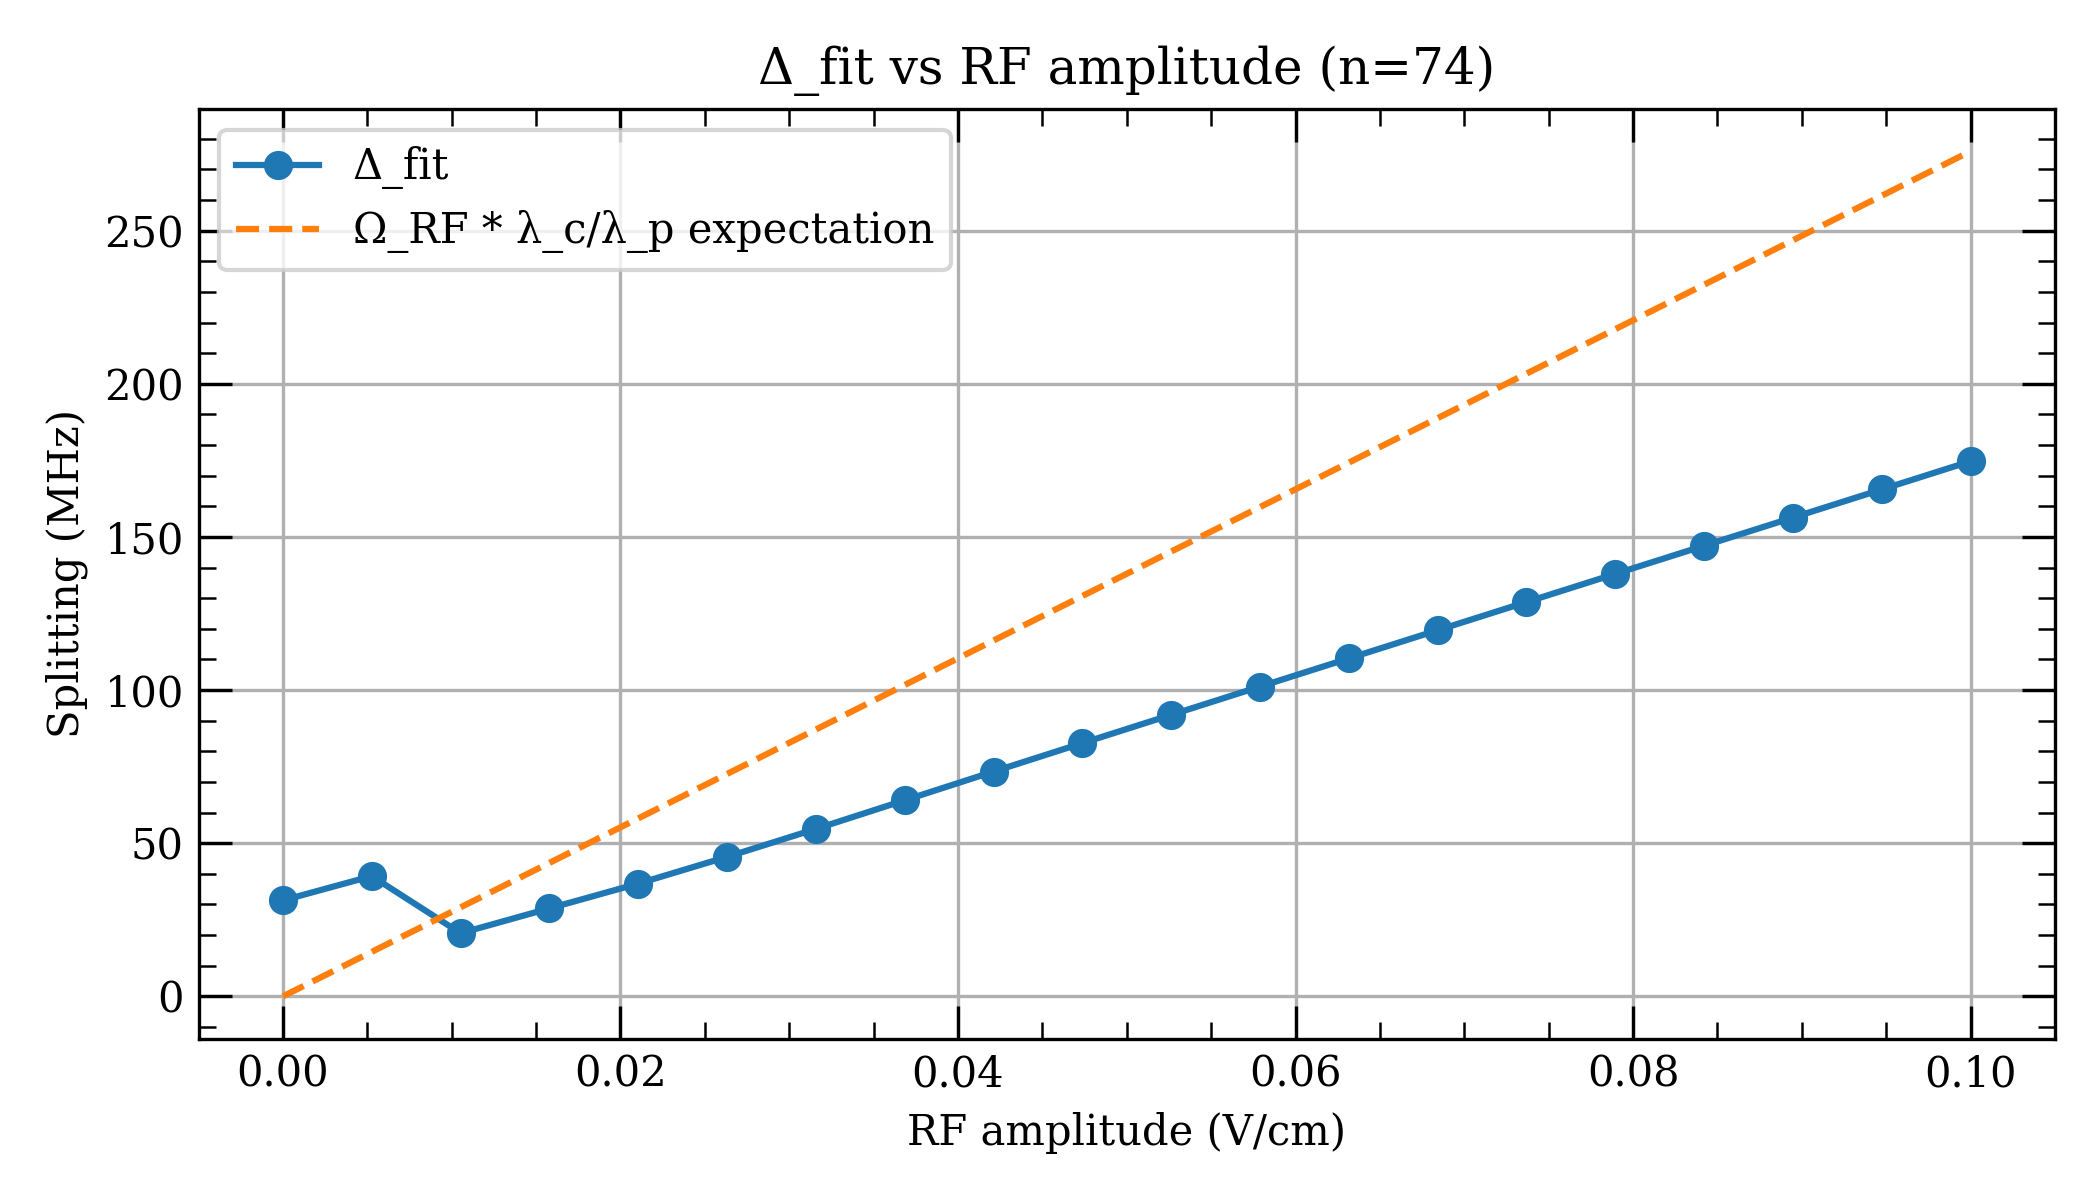
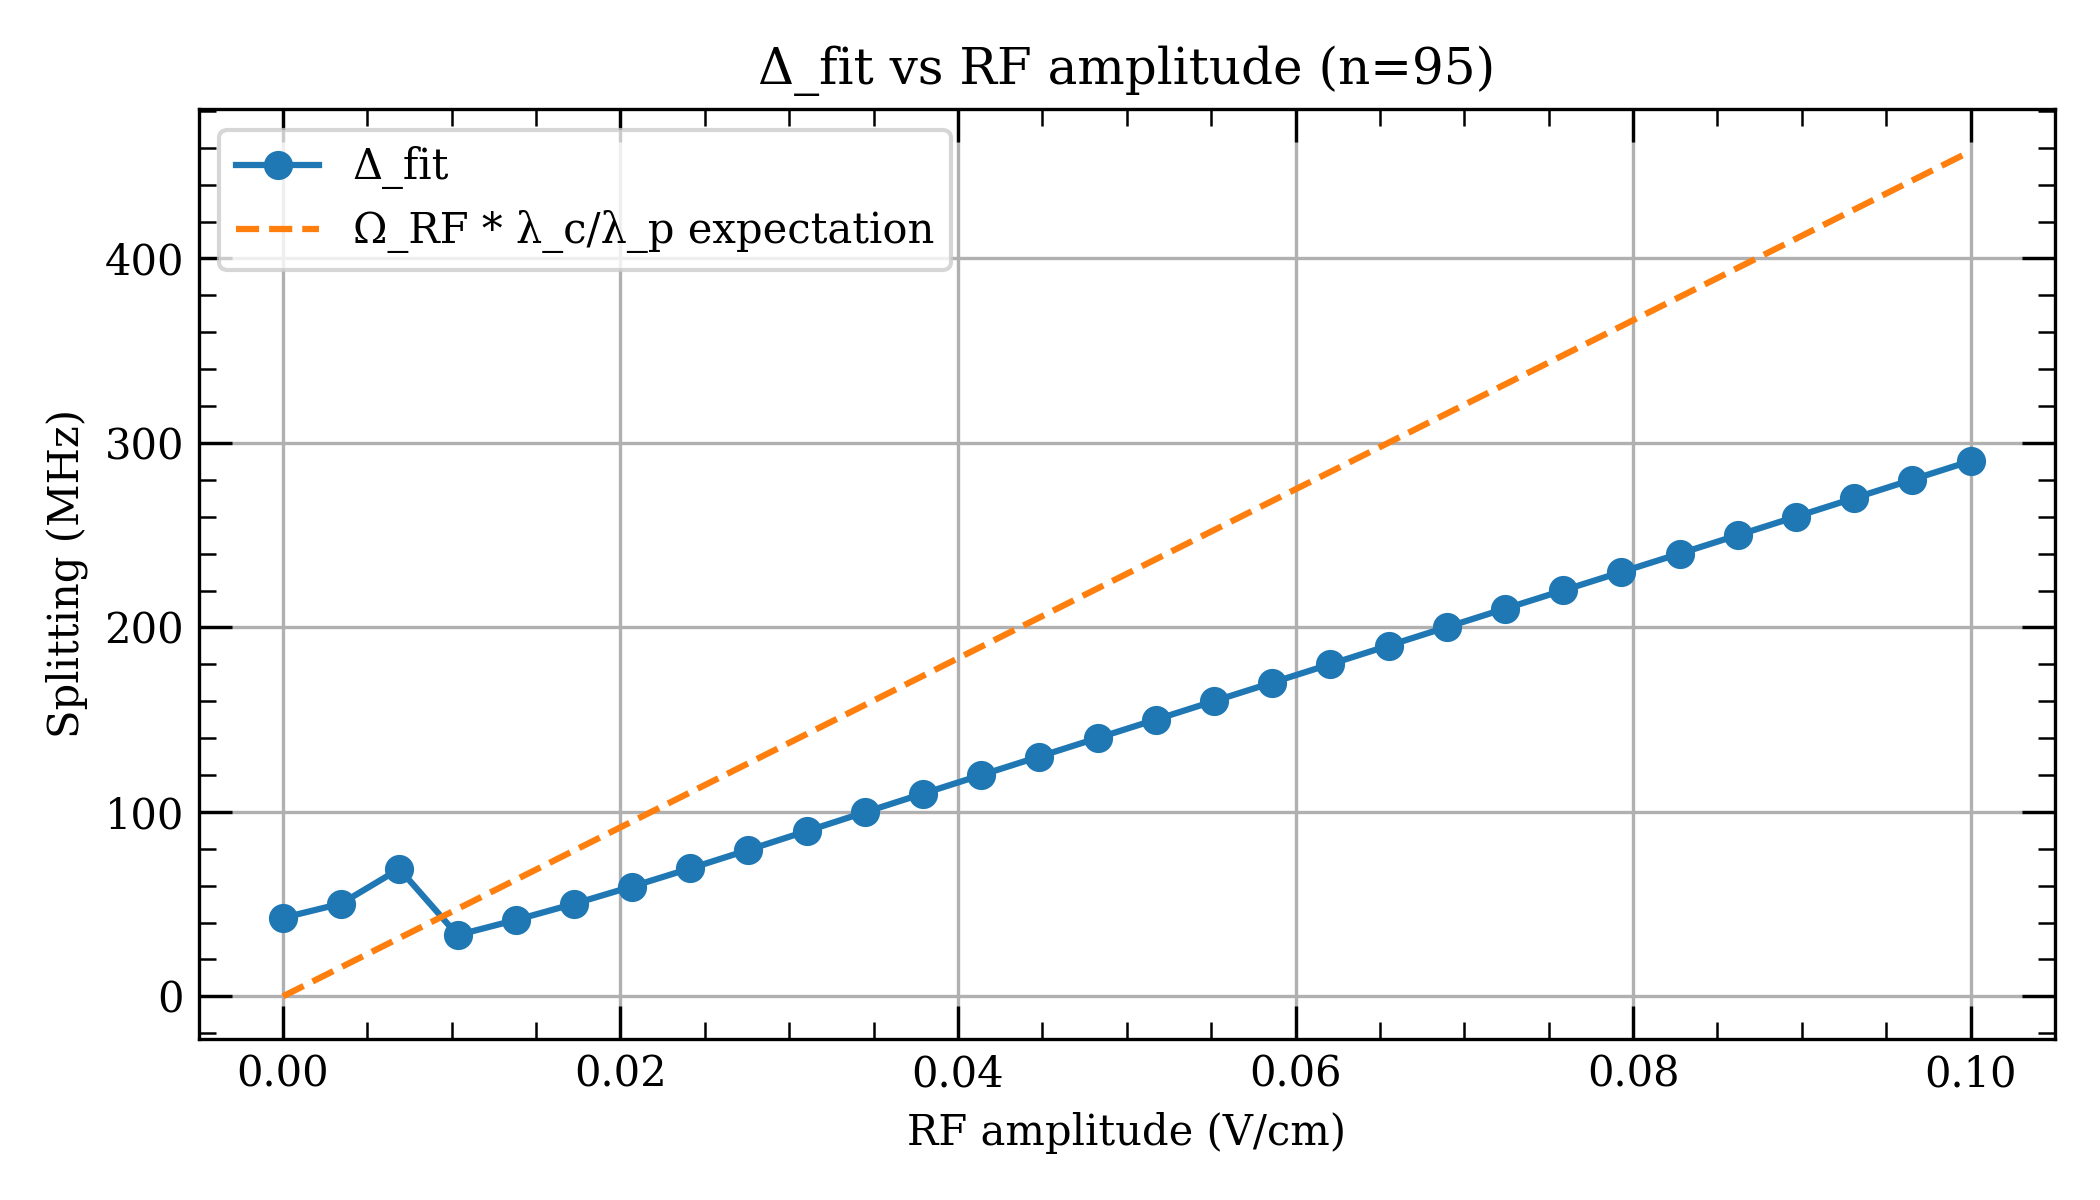
added tabs to parameters

diff --git a/gui.py b/gui.py
@@ -32,6 +32,7 @@ from PyQt6.QtWidgets import (
     QSizePolicy,
     QVBoxLayout,
     QGroupBox,
+    QTabWidget,
     QWidget,
 )
 from matplotlib.backends.backend_qtagg import FigureCanvasQTAgg as FigureCanvas
@@ -66,6 +67,7 @@ class SimulationGUI(QWidget):
         self.detuning_span = QLineEdit("300")
         self.detuning_points = QLineEdit("401")
         self.output_file = QLineEdit("eit_rf_gui.png")
+        self.control_detuning = QLineEdit("0.0")
         self.override_pressure = QCheckBox("Override pressure")
         self.pressure_torr = QLineEdit("")
         self.pressure_torr.setEnabled(False)
@@ -74,6 +76,8 @@ class SimulationGUI(QWidget):
         self.sweep_output = QLineEdit("eit_rf_sweep.png")
         self.sweep_output.setEnabled(False)
         self.enable_sweep_plot.toggled.connect(self._toggle_sweep_field)
+        self.sweep_points = QLineEdit("20")
+        self.sweep_points.setEnabled(False)
         self.probe_label_text = ""
         self.control_label_text = ""
         self.auto_n = QCheckBox("Auto select n")
@@ -86,7 +90,7 @@ class SimulationGUI(QWidget):
         self.np_value.setEnabled(False)
         self.auto_n.toggled.connect(self._toggle_n_fields)
         self.normalize = QCheckBox("Normalize baseline")
-        self.baseline_amp = QLineEdit("1000")
+        self.baseline_amp = QLineEdit("")
         self.timing = QCheckBox("Show timing")
         self.no_show = QCheckBox("Skip plot window")
         self.no_show.setChecked(True)
@@ -97,60 +101,10 @@ class SimulationGUI(QWidget):
         self.auto_rotate = QCheckBox("Auto-rotate visualization")
         self.auto_rotate.setChecked(True)
         self.auto_rotate.stateChanged.connect(self._toggle_auto_rotate)
+        self.debug_timing = QCheckBox("Show timing")
 
         self.output = QTextEdit()
         self.output.setReadOnly(True)
-
-        forms = QVBoxLayout()
-
-        rf_group = self._make_rows([
-            ("Isotope", self.isotope),
-            ("RF frequency (MHz)", self.rf_frequency),
-            ("RF amplitudes (V/cm)", self.rf_amplitudes),
-            ("Temperature (K)", self.temperature),
-            ("Cell length (m)", self.cell_length, "Cell cross (m)", self.cell_cross),
-            ("Probe span (MHz)", self.detuning_span),
-            ("Probe points", self.detuning_points),
-        ])
-        beam_form = self._make_rows([
-            ("Probe power (W)", self.probe_power, "Probe waist (m)", self.probe_waist),
-            ("Control power (W)", self.control_power, "Control waist (m)", self.control_waist),
-        ])
-        state_layout = QHBoxLayout()
-        state_label = QLabel("Level select")
-        state_label.setMinimumWidth(140)
-        state_layout.addWidget(state_label)
-        state_layout.addWidget(self.auto_n)
-        state_layout.addSpacing(10)
-        state_layout.addWidget(QLabel("n"))
-        state_layout.addWidget(self.n_value)
-        state_layout.addWidget(QLabel("n_p"))
-        state_layout.addWidget(self.np_value)
-        pressure_layout = QHBoxLayout()
-        pressure_layout.addWidget(self.override_pressure)
-        pressure_label = QLabel("Custom pressure (Torr)")
-        pressure_label.setMinimumWidth(140)
-        pressure_layout.addWidget(pressure_label)
-        pressure_layout.addWidget(self.pressure_torr)
-        sweep_layout = QHBoxLayout()
-        sweep_layout.addWidget(self.enable_sweep_plot)
-        sweep_label = QLabel("Sweep figure")
-        sweep_label.setMinimumWidth(140)
-        sweep_layout.addWidget(sweep_label)
-        sweep_layout.addWidget(self.sweep_output)
-
-        misc_group = self._make_rows([
-            ("Output figure", self.output_file),
-            ("Baseline RF (V/cm)", self.baseline_amp),
-        ])
-        toggles_layout = QHBoxLayout()
-        toggles_layout.addWidget(self.normalize)
-        toggles_layout.addWidget(self.timing)
-        toggles_layout.addWidget(self.no_show)
-        toggles_layout.addWidget(self.fit_peaks)
-        profile_layout = QHBoxLayout()
-        profile_layout.addWidget(QLabel("Fit profile"))
-        profile_layout.addWidget(self.fit_profile)
 
         self.extra_args = QLineEdit()
         self.extra_args.setPlaceholderText("Extra CLI args (e.g., --doppler-method uniform --doppler-width 3.0)")
@@ -169,25 +123,116 @@ class SimulationGUI(QWidget):
             self.summary_fields[key] = label
         self.summary_box.setLayout(summary_layout)
 
+        # Tabs setup
+        self.tabs = QTabWidget()
+
+        # Simulation tab
+        sim_tab = QWidget()
+        sim_layout = QVBoxLayout()
+        state_layout = QHBoxLayout()
+        state_label = QLabel("Level select")
+        state_label.setMinimumWidth(140)
+        state_layout.addWidget(state_label)
+        state_layout.addWidget(self.auto_n)
+        state_layout.addSpacing(10)
+        state_layout.addWidget(QLabel("n"))
+        state_layout.addWidget(self.n_value)
+        state_layout.addWidget(QLabel("n_p"))
+        state_layout.addWidget(self.np_value)
+        sim_layout.addLayout(self._make_rows([
+            ("Isotope", self.isotope),
+            ("RF frequency (MHz)", self.rf_frequency),
+            ("RF amplitudes (V/cm)", self.rf_amplitudes),
+            ("Probe span (MHz)", self.detuning_span),
+            ("Probe points", self.detuning_points),
+        ]))
+        sim_layout.addWidget(self.auto_n_only)
+        sim_layout.addLayout(state_layout)
+        sim_layout.addStretch()
+        sim_tab.setLayout(sim_layout)
+        self.tabs.addTab(sim_tab, "Simulation")
+
+        # Cell tab
+        cell_tab = QWidget()
+        cell_layout = QVBoxLayout()
+        pressure_layout = QHBoxLayout()
+        pressure_layout.addWidget(self.override_pressure)
+        pressure_label = QLabel("Custom pressure (Torr)")
+        pressure_label.setMinimumWidth(140)
+        pressure_layout.addWidget(pressure_label)
+        pressure_layout.addWidget(self.pressure_torr)
+        cell_layout.addLayout(self._make_rows([
+            ("Temperature (K)", self.temperature),
+            ("Cell length (m)", self.cell_length, "Cell cross (m)", self.cell_cross),
+        ]))
+        cell_layout.addLayout(pressure_layout)
+        cell_layout.addStretch()
+        cell_tab.setLayout(cell_layout)
+        self.tabs.addTab(cell_tab, "Cell")
+
+        # Lasers tab
+        laser_tab = QWidget()
+        laser_layout = QVBoxLayout()
+        laser_layout.addLayout(self._make_rows([
+            ("Probe power (W)", self.probe_power, "Probe waist (m)", self.probe_waist),
+            ("Control power (W)", self.control_power, "Control waist (m)", self.control_waist),
+            ("Control detuning (MHz)", self.control_detuning),
+        ]))
+        laser_layout.addStretch()
+        laser_tab.setLayout(laser_layout)
+        self.tabs.addTab(laser_tab, "Lasers")
+
+        # Plot/Fit tab
+        plot_tab = QWidget()
+        plot_layout = QVBoxLayout()
+        plot_layout.addLayout(self._make_rows([
+            ("Output figure", self.output_file),
+            ("Baseline RF (V/cm)", self.baseline_amp),
+        ]))
+        plot_toggles = QHBoxLayout()
+        plot_toggles.addWidget(self.normalize)
+        plot_toggles.addWidget(self.no_show)
+        plot_toggles.addWidget(self.fit_peaks)
+        plot_layout.addLayout(plot_toggles)
+        profile_layout = QHBoxLayout()
+        profile_layout.addWidget(QLabel("Fit profile"))
+        profile_layout.addWidget(self.fit_profile)
+        plot_layout.addLayout(profile_layout)
+        sweep_layout = QHBoxLayout()
+        sweep_layout.addWidget(self.enable_sweep_plot)
+        sweep_label = QLabel("Sweep figure")
+        sweep_label.setMinimumWidth(140)
+        sweep_layout.addWidget(sweep_label)
+        sweep_layout.addWidget(self.sweep_output)
+        sweep_layout.addWidget(QLabel("Points"))
+        sweep_layout.addWidget(self.sweep_points)
+        plot_layout.addLayout(sweep_layout)
+        plot_layout.addStretch()
+        plot_tab.setLayout(plot_layout)
+        self.tabs.addTab(plot_tab, "Plot/Fit")
+
+        # CLI tab
+        cli_tab = QWidget()
+        cli_layout = QVBoxLayout()
+        cli_layout.addWidget(QLabel("Extra CLI args"))
+        cli_layout.addWidget(self.extra_args)
+        cli_layout.addWidget(QLabel("All CLI options (from main.py --help)"))
+        cli_layout.addWidget(self.cli_help_box, 1)
+        cli_layout.addWidget(QLabel("Simulation log"))
+        cli_layout.addWidget(self.output)
+        cli_tab.setLayout(cli_layout)
+        self.tabs.addTab(cli_tab, "CLI")
+
+        # Debug tab
+        debug_tab = QWidget()
+        debug_layout = QVBoxLayout()
+        debug_layout.addWidget(self.debug_timing)
+        debug_layout.addStretch()
+        debug_tab.setLayout(debug_layout)
+        self.tabs.addTab(debug_tab, "Debug")
+
         self.run_button = QPushButton("Run Simulation")
         self.run_button.clicked.connect(self.run_simulation)
-
-        forms.addLayout(rf_group)
-        forms.addLayout(beam_form)
-        forms.addLayout(state_layout)
-        forms.addLayout(pressure_layout)
-        forms.addLayout(sweep_layout)
-        forms.addLayout(misc_group)
-        forms.addLayout(toggles_layout)
-        forms.addLayout(profile_layout)
-        forms.addWidget(self.auto_n_only)
-        forms.addWidget(self.extra_args)
-        forms.addWidget(QLabel("All CLI options (from main.py --help)"))
-        forms.addWidget(self.cli_help_box, 1)
-        forms.addWidget(QLabel("Simulation log"))
-        self.output.setFixedHeight(120)
-        forms.addWidget(self.output)
-        forms.addSpacing(10)
 
         self.preview_label = QLabel("Preview not available.")
         self.preview_label.setAlignment(Qt.AlignmentFlag.AlignCenter)
@@ -241,7 +286,7 @@ class SimulationGUI(QWidget):
         self.preview_buttons_layout.addWidget(self.next_plot_btn)
 
         content_row = QHBoxLayout()
-        content_row.addLayout(forms, 1)
+        content_row.addWidget(self.tabs, 1)
         content_row.addLayout(log_layout, 1)
 
         bottom_row = QHBoxLayout()
@@ -425,6 +470,8 @@ class SimulationGUI(QWidget):
             self.probe_waist.text().strip(),
             "--control-waist",
             self.control_waist.text().strip(),
+            "--control-detuning",
+            self.control_detuning.text().strip(),
             "--temperature",
             self.temperature.text().strip(),
             "--probe-span",
@@ -449,7 +496,7 @@ class SimulationGUI(QWidget):
                 cmd.extend(["--baseline-rf-amplitude", self.baseline_amp.text().strip()])
         if self.no_show.isChecked():
             cmd.append("--no-show")
-        if self.timing.isChecked():
+        if self.debug_timing.isChecked():
             cmd.append("--timing")
         if self.fit_peaks.isChecked():
             cmd.append("--fit-peaks")
@@ -460,6 +507,8 @@ class SimulationGUI(QWidget):
             cmd.append("--sweep-plot")
             if self.sweep_output.text().strip():
                 cmd.extend(["--sweep-output", self.sweep_output.text().strip()])
+            if self.sweep_points.text().strip():
+                cmd.extend(["--sweep-points", self.sweep_points.text().strip()])
         extra = self.extra_args.text().strip()
         if extra:
             cmd.extend(extra.split())
@@ -517,6 +566,7 @@ class SimulationGUI(QWidget):
 
     def _toggle_sweep_field(self, checked: bool) -> None:
         self.sweep_output.setEnabled(checked)
+        self.sweep_points.setEnabled(checked)
 
     def _set_preview_paths(self, paths: list[str]) -> None:
         self.generated_plots = paths
